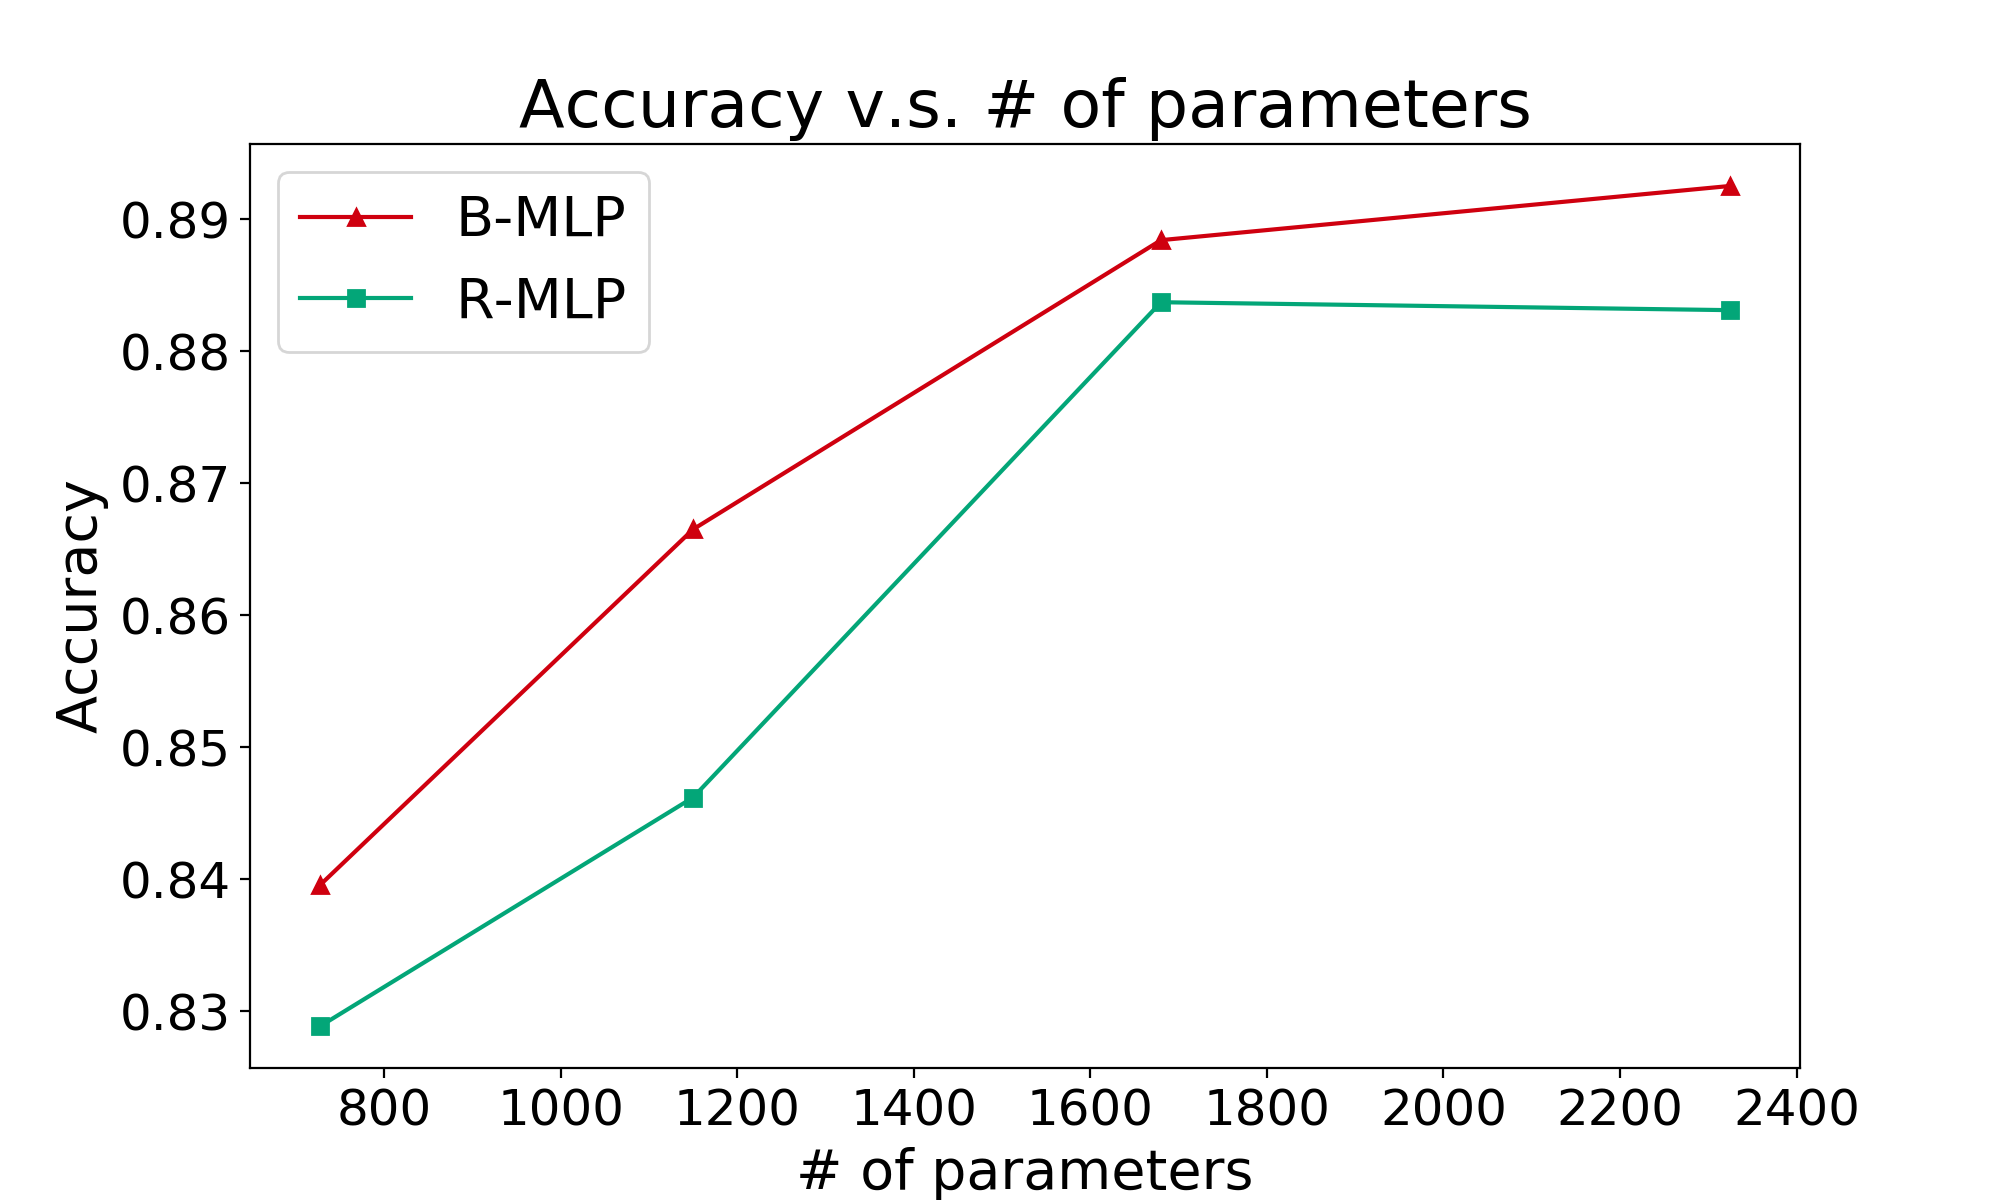
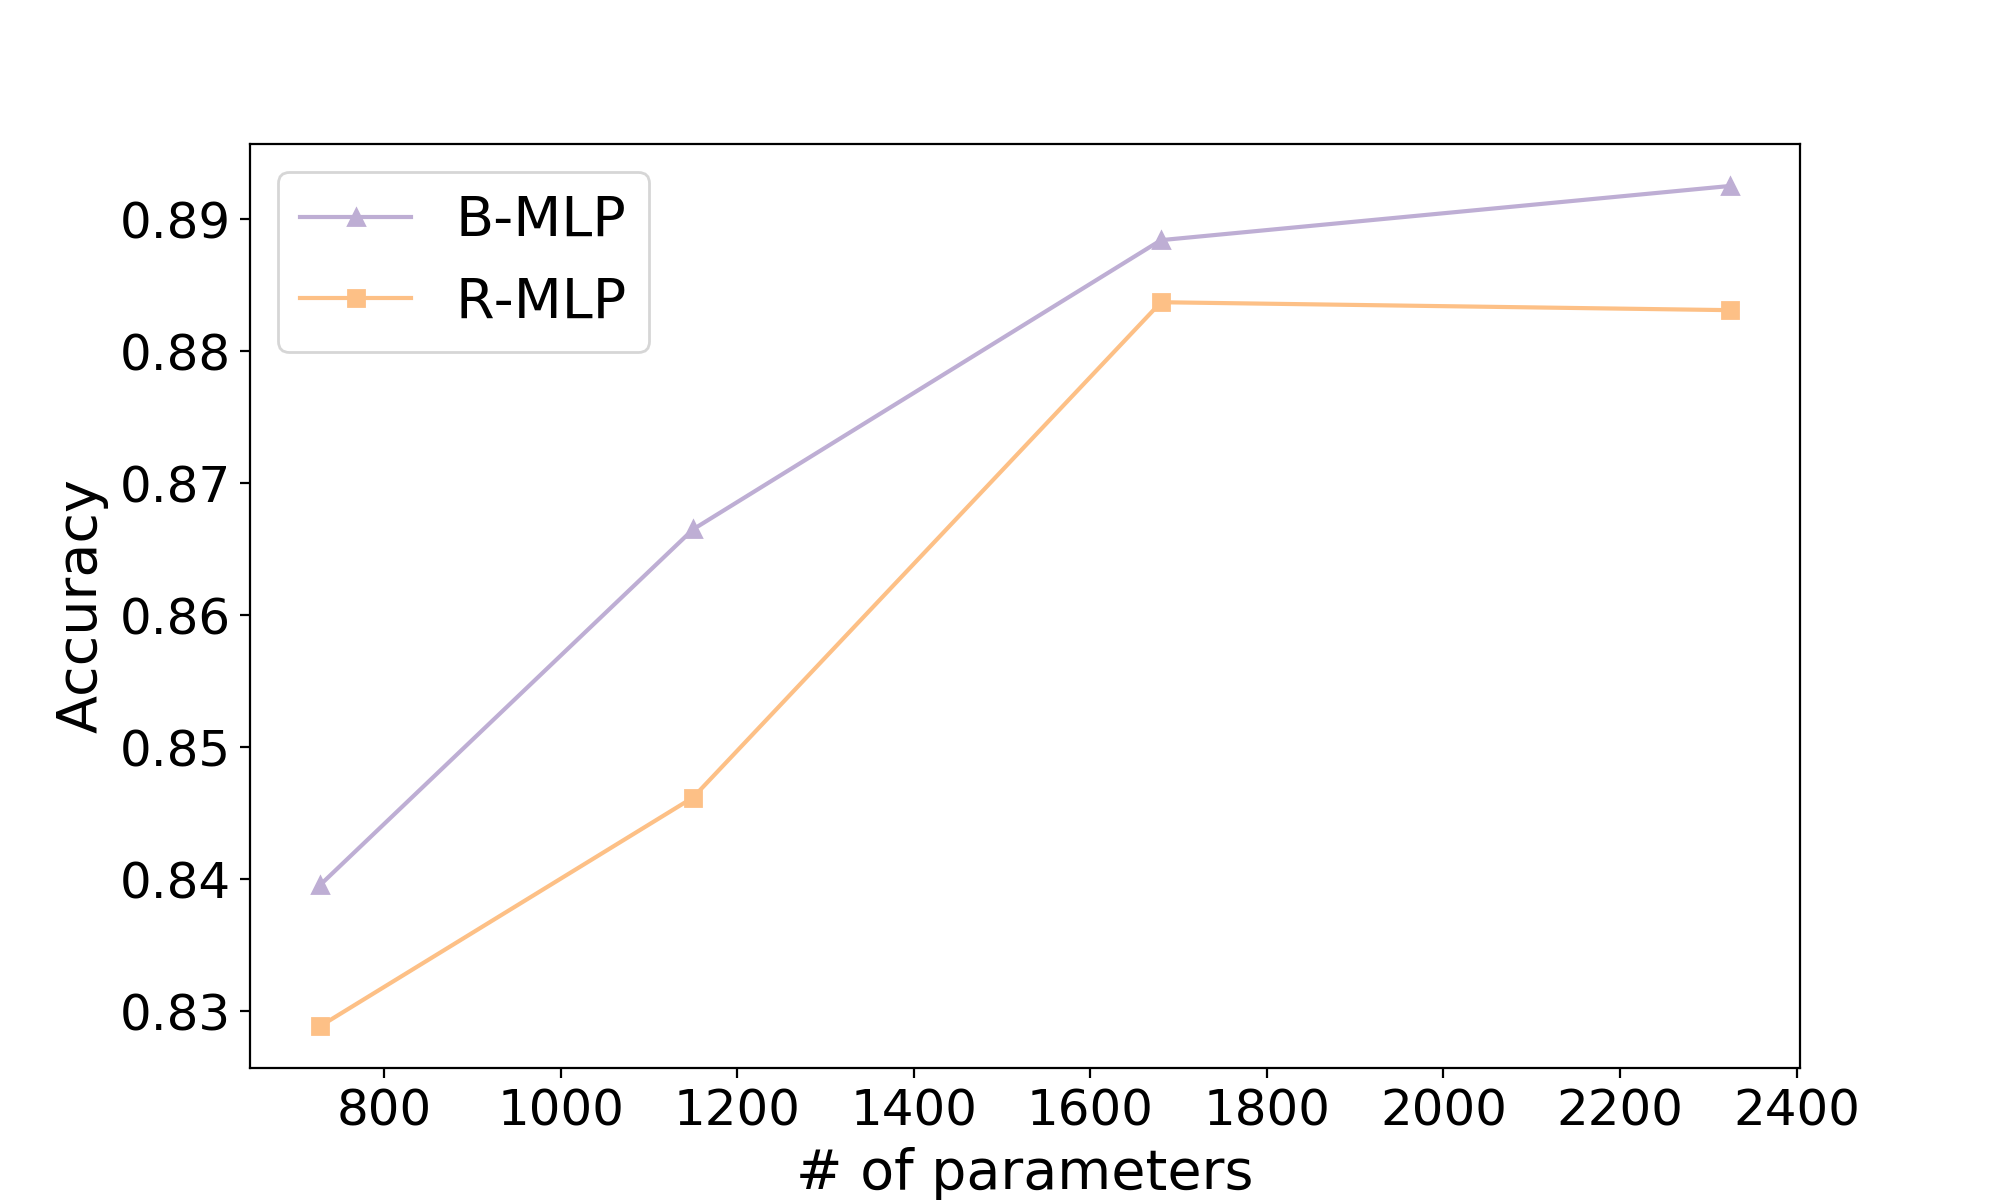
Updates the mlp experiments figures.

diff --git a/mlp/plot_mlp_experiments.py b/mlp/plot_mlp_experiments.py
@@ -71,7 +71,7 @@ for index, layers in enumerate(layers_list):
 
 print(numberOfParam_ndarray)
 
-color_list = ['#22a7f0', '#cf000f', '#03a678']
+color_list = ['#7fc97f', '#beaed4', '#fdc086']
 shape_list = ['-o', '-^', '-s']
 
 # Plot all models
@@ -81,7 +81,7 @@ plt.setp(ax.get_yticklabels(), fontsize=18, fontweight="normal")
 for i in MODEL_INDEX_LIST:
     ax.plot(numberOfParam_ndarray[i][SELECTED_INDEX_LIST], accuracy_ndarray[i][SELECTED_INDEX_LIST], shape_list[i], color=color_list[i], label=name_list[i])
 ax.legend(fontsize=20)
-ax.set_title(r'Accuracy v.s. # of parameters', fontsize=24)
+# ax.set_title(r'Accuracy v.s. # of parameters', fontsize=24)
 ax.set_xlabel(r'# of parameters', fontsize=20)
 ax.set_ylabel(r'Accuracy', fontsize=20)
 
@@ -96,7 +96,7 @@ plt.setp(ax.get_yticklabels(), fontsize=18, fontweight="normal")
 for i in MODEL_INDEX_LIST:
     ax.plot(numberOfParam_ndarray[i][SELECTED_INDEX_LIST], accuracy_ndarray[i][SELECTED_INDEX_LIST], shape_list[i], color=color_list[i], label=name_list[i])
 ax.legend(fontsize=20)
-ax.set_title(r'Accuracy v.s. # of parameters', fontsize=24)
+# ax.set_title(r'Accuracy v.s. # of parameters', fontsize=24)
 ax.set_xlabel(r'# of parameters', fontsize=20)
 ax.set_ylabel(r'Accuracy', fontsize=20)
 
